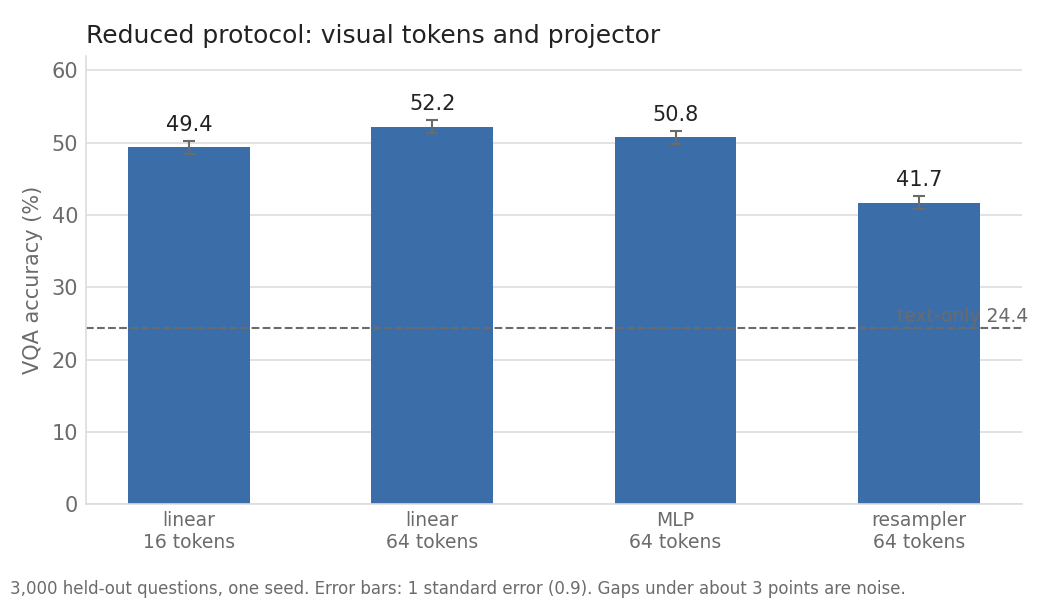
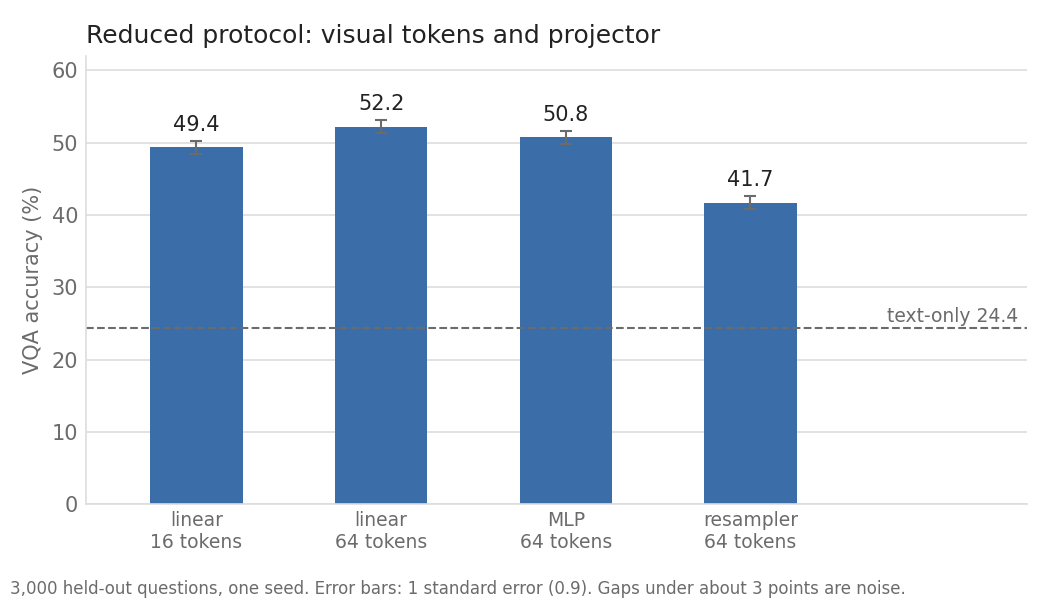
changes to the plot generation script

diff --git a/scripts/make_phase5_plots.py b/scripts/make_phase5_plots.py
@@ -48,7 +48,8 @@ def main():
     fig, ax = plt.subplots(figsize=(7, 4))
     bars(ax, [l for _, l in names], vals, errors=SE)
     ax.axhline(TEXT_ONLY, color=MUTED, linestyle="--", linewidth=1)
-    ax.text(3.45, TEXT_ONLY + 0.8, "text-only 24.4", ha="right", color=MUTED, fontsize=9)
+    ax.set_xlim(-0.6, 4.5)
+    ax.text(4.45, TEXT_ONLY + 0.8, "text-only 24.4", ha="right", color=MUTED, fontsize=9)
     ax.set_ylabel("VQA accuracy (%)", color=MUTED)
     ax.set_title("Reduced protocol: visual tokens and projector", loc="left", color=INK, fontsize=12)
     ax.set_ylim(0, 62)
@@ -67,12 +68,12 @@ def main():
         lo = [lat[k][f"batch{bs}"]["median_ms"] - lat[k][f"batch{bs}"]["min_ms"] for k in labels]
         hi = [lat[k][f"batch{bs}"]["max_ms"] - lat[k][f"batch{bs}"]["median_ms"] for k in labels]
         ax.bar(range(len(vs)), vs, width=0.5, color=BAR, yerr=[lo, hi], ecolor=MUTED, capsize=3, error_kw={"linewidth": 1})
-        for i, v in enumerate(vs):
-            ax.text(i, v + max(hi) + 2, f"{v:.0f}", ha="center", color=INK, fontsize=10)
+        for i, (v, h) in enumerate(zip(vs, hi)):
+            ax.text(i, v + h + max(vs) * 0.02, f"{v:.0f}", ha="center", color=INK, fontsize=10)
         ax.set_xticks(range(len(vs)))
         ax.set_xticklabels(list(labels.values()), fontsize=8, color=INK)
         ax.set_title(f"batch size {bs}", loc="left", color=INK, fontsize=11)
-        ax.set_ylim(0, max(vs) * 1.3)
+        ax.set_ylim(0, (max(v + h for v, h in zip(vs, hi))) * 1.15)
         style(ax)
     axes[0].set_ylabel("ms per question (median of 7 passes)", color=MUTED)
     fig.suptitle("Generation latency (cached features, up to 8 new tokens, M4 Pro)", x=0.01, ha="left", color=INK, fontsize=12)
@@ -88,7 +89,8 @@ def main():
     fig, ax = plt.subplots(figsize=(7.5, 4))
     bars(ax, [l for _, l in small], vals, errors=SE)
     ax.axhline(TEXT_ONLY, color=MUTED, linestyle="--", linewidth=1)
-    ax.text(3.45, TEXT_ONLY + 0.8, "text-only 24.4", ha="right", color=MUTED, fontsize=9)
+    ax.set_xlim(-0.6, 4.5)
+    ax.text(4.45, TEXT_ONLY + 0.8, "text-only 24.4", ha="right", color=MUTED, fontsize=9)
     ax.set_ylabel("VQA accuracy (%)", color=MUTED)
     ax.set_title("Small protocol (3k stage-2 records): encoder and training stages", loc="left", color=INK, fontsize=12)
     ax.set_ylim(0, 62)
